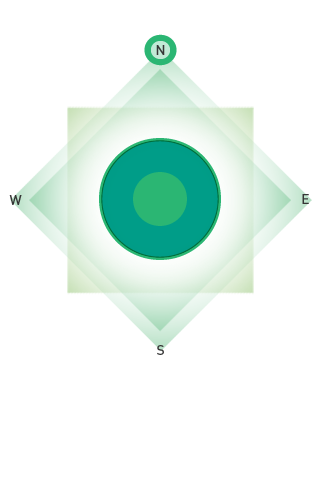
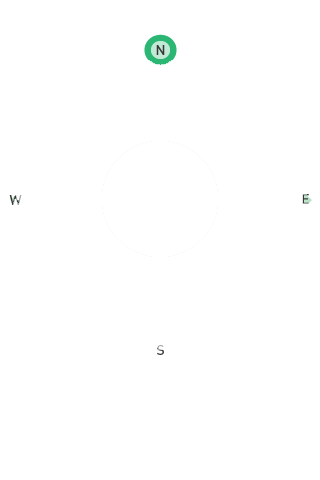
Compass design

Changed region(s): [[0.0312, 0.125, 0.9688, 0.75]]

diff --git a/src/ofApp.mm b/src/ofApp.mm
@@ -2,8 +2,12 @@
 
 //--------------------------------------------------------------
 void ofApp::setup(){
+    
+    gratio = 1.61803398875;
+    
 	ofBackground(225, 225, 225);
-
+    ofEnableAntiAliasing();
+    
 	// initialize the accelerometer
 	ofxAccelerometer.setup();
     
@@ -28,6 +32,8 @@ void ofApp::setup(){
 	
 	pix = new unsigned char[ (int)( grabber.getWidth() * grabber.getHeight() * 3.0) ];
     
+    font.loadFont("Arial.ttf", 24);
+    
 }
 
 
@@ -38,7 +44,7 @@ void ofApp::update(){
     coreMotion.update();
     
     
-    grabber.update();
+    /*grabber.update();
 	
 	unsigned char * src = grabber.getPixels();
 	int totalPix = grabber.getWidth() * grabber.getHeight() * 3;
@@ -49,53 +55,133 @@ void ofApp::update(){
 		pix[k+2] = 255 - src[k+2];
 	}
 	
-	tex.loadData(pix, grabber.getWidth(), grabber.getHeight(), GL_RGB);
+	tex.loadData(pix, grabber.getWidth(), grabber.getHeight(), GL_RGB);*/
     
+}
+
+void compassbox() {
+    ofFill();
+    ofSetColor(255);
+    ofDrawBox(0, 0, 0, 20, 20, 2);
+    ofSetColor(0);
+    ofNoFill();
+    ofDrawBox(0, 0, 0, 20, 20, 2);
 }
 
 //--------------------------------------------------------------
 void ofApp::draw(){
+    
+    ofEnableDepthTest();
+    glEnable(GL_DEPTH_TEST);
+    
+    ofQuaternion quat = coreMotion.getQuaternion();
+    ofVec3f g = coreMotion.getGyroscopeData();
+    ofVec3f m = coreMotion.getMagnetometerData();
+    
+    // quaternion rotations
+    float angle;
+    ofVec3f axis;//(0,0,1.0f);
+    quat.getRotate(angle, axis);// rotate with quaternion
+    
+    
 	ofSetColor(100);
-    grabber.draw(0, 0);
+    //grabber.draw(0, 0);
     ofSetColor(255);
 	//tex.draw(0, 0, tex.getWidth(), tex.getHeight());
     
     //float angle = 180 - RAD_TO_DEG * atan2( ofxAccelerometer.getForce().y, ofxAccelerometer.getForce().x );
     
 	//ofDrawBitmapString("Kompass", 8, 20);
-
-	/*ofEnableAlphaBlending();
+    
+    ofSetRectMode(OF_RECTMODE_CENTER);
+    float cradius = 60;
+    ofEnableAlphaBlending();
 	ofSetColor(255);
 		ofPushMatrix();
-		ofTranslate(160, 220, 0);
+		ofTranslate(ofGetWidth()/2, ofGetHeight()-(ofGetHeight()/gratio), 0);
 		ofRotateZ(heading);
-		compassImg.draw(0,0);
+    
+        ofFill();
+    
+    ofPushMatrix();
+    ofTranslate(cradius, 0,0);
+    ofRotateZ(-heading);
+    ofRotate(angle, axis.x, -axis.y, axis.z);
+    
+    ofSetColor(0);
+    ofNoFill();
+    ofDrawBox(0, 0, 0, 21, 21, 21);
+    
+    ofFill();
+    ofSetColor(255);
+    ofDrawBox(0, 0, 0, 20, 20, 20);
+
+    ofPopMatrix();
+    
+    ofPushMatrix();
+    ofTranslate(-cradius, 0,0);
+    ofRotateZ(-heading);
+    ofRotate(angle, axis.x, -axis.y, axis.z);
+    
+    ofSetColor(0);
+    ofNoFill();
+    ofDrawBox(0, 0, 0, 21, 21, 21);
+    
+    ofFill();
+    ofSetColor(255);
+    ofDrawBox(0, 0, 0, 20, 20, 20);
+
+    ofPopMatrix();
+    
+    ofPushMatrix();
+    ofTranslate(0, cradius,0);
+    ofRotateZ(-heading);
+    ofRotate(angle, axis.x, -axis.y, axis.z);
+    
+    ofSetColor(0);
+    ofNoFill();
+    ofDrawBox(0, 0, 0, 21, 21, 21);
+    
+    ofFill();
+    ofSetColor(255);
+    ofDrawBox(0, 0, 0, 20, 20, 20);
+
+    ofPopMatrix();
+    
+    ofPushMatrix();
+    ofTranslate(0, -cradius,0);
+    ofRotateZ(-heading);
+    ofRotate(angle, axis.x, -axis.y, axis.z);
+    
+    ofSetColor(0);
+    ofNoFill();
+    ofDrawBox(0, 0, 0, 21, 21, 21);
+    
+    ofFill();
+    ofSetColor(255);
+    ofDrawBox(0, 0, 0, 20, 20, 20);
+
+    ofPopMatrix();
+    
+
 	ofPopMatrix();
 	
-	ofSetColor(255);
-	arrowImg.draw(160, 220);*/
+	//arrowImg.draw(160, 220);
+    float aw = 4;
+    ofSetColor(0);
+    
+    ofFill();
+    
+    
+    float far = ofMap(coreMotion.getPitch(), 0, PI, 100, 600);;
+    ofDrawBox(ofGetWidth()/2, ofGetHeight()-(ofGetHeight()/gratio), 0, aw, far, 2);
+    ofSetColor(255);
 
-	//ofSetColor(54);
+    
+    //ofSetColor(54);
 	//ofDrawBitmapString("LAT: ", 8, ofGetHeight() - 8);
 	//ofDrawBitmapString("LON: ", ofGetWidth() - 108, ofGetHeight() - 8);
 
-
-    // attitude- quaternion
-    //ofDrawBitmapStringHighlight("Attitude: (quaternion x,y,z,w)", 20, 25);
-    //ofSetColor(0);
-    ofQuaternion quat = coreMotion.getQuaternion();
-    /*ofDrawBitmapString(ofToString(quat.x(),3), 20, 50);
-    ofDrawBitmapString(ofToString(quat.y(),3), 90, 50);
-    ofDrawBitmapString(ofToString(quat.z(),3), 160, 50);
-    ofDrawBitmapString(ofToString(quat.w(),3), 230, 50);*/
-    
-    // attitude- roll,pitch,yaw
-    //ofDrawBitmapStringHighlight("Attitude: (roll,pitch,yaw)", 20, 75);
-    /*ofSetColor(0);
-    ofDrawBitmapString(ofToString(coreMotion.getRoll(),3), 20, 100);
-    ofDrawBitmapString(ofToString(coreMotion.getPitch(),3), 120, 100);
-    ofDrawBitmapString(ofToString(coreMotion.getYaw(),3), 220, 100);*/
-    
     // accelerometer
     ofVec3f a = coreMotion.getAccelerometerData();
     /*ofDrawBitmapStringHighlight("Accelerometer: (x,y,z)", 20, 125);
@@ -105,7 +191,6 @@ void ofApp::draw(){
     ofDrawBitmapString(ofToString(a.z,3), 220, 150);*/
     
     // gyroscope
-    ofVec3f g = coreMotion.getGyroscopeData();
     /*ofDrawBitmapStringHighlight("Gyroscope: (x,y,z)", 20, 175);
     ofSetColor(0);
     ofDrawBitmapString(ofToString(g.x,3), 20, 200 );
@@ -113,7 +198,6 @@ void ofApp::draw(){
     ofDrawBitmapString(ofToString(g.z,3), 220, 200 );*/
     
     // magnetometer
-    ofVec3f m = coreMotion.getMagnetometerData();
     /*ofDrawBitmapStringHighlight("Magnetometer: (x,y,z)", 20, 225);
     ofSetColor(0);
     ofDrawBitmapString(ofToString(m.x,3), 20, 250);
@@ -123,12 +207,6 @@ void ofApp::draw(){
     
     ofPushMatrix();
     ofTranslate(ofGetWidth()/2, ofGetHeight()/2);
-    
-    // 1) quaternion rotations
-    float angle;
-    ofVec3f axis;//(0,0,1.0f);
-    quat.getRotate(angle, axis);
-    ofRotate(angle, axis.x, -axis.y, axis.z); // rotate with quaternion
     
     // 2) rotate by multiplying matrix directly
     //ofMatrix4x4 mat = coreMotion.getRotationMatrix();
@@ -141,9 +219,37 @@ void ofApp::draw(){
     //ofRotateZ( ofRadToDeg( coreMotion.getYaw() ) );
     
     ofNoFill();
-	ofDrawBox(0, 0, 0, 220); // OF 0.74: ofBox(0, 0, 0, 220);
+	//ofDrawBox(0, 0, 0, 220);
     //ofDrawAxis(100);
     ofPopMatrix();
+    
+    ofSetColor(0);
+    float w = font.getStringBoundingBox("Go!", 0, 0).width;
+    font.drawString("Go!", ofGetWidth()/2-(w/2), ofGetHeight()-40);
+    
+    /*float Speed = 1.0;     // Speed rather than velocity, as it is only the magnitude
+    float Angle = angle * RAD_TO_DEG;      // Initial angle of 30º
+    
+    ofVec3f pos = ofVec3f(0.0,0.0,0.0);  // Set the origin to (0,0)
+    ofVec3f vel = ofVec3f(0.0,0.0,0.0);
+
+    ofPushMatrix();
+    
+    float v = 0.2;
+    for(int i=0;i<10000;i++){
+        
+        float x = i;
+        float y = x * tan(Angle) - (9.8 * x) / (2 * v * cos(Angle));
+        
+        ofCircle(x/10,y/100,10);
+    }
+    ofPopMatrix();
+    */
+  //  float g = 9.8;
+   // float x = 0;
+   // float v = 1;
+    
+    //float y = x * tan(theta) - pow(x, 2) * g / ( 2* pow(v,2)
     
     //ofFill();
     //ofDrawBitmapString(ofToString("Double tap to reset \nAttitude reference frame"), 20, ofGetHeight() - 50);
@@ -184,7 +290,6 @@ void ofApp::touchUp(ofTouchEventArgs & touch){
 //--------------------------------------------------------------
 void ofApp::touchDoubleTap(ofTouchEventArgs & touch){
     coreMotion.resetAttitude();
-
 }
 
 //--------------------------------------------------------------

diff --git a/src/ofApp.h b/src/ofApp.h
@@ -41,4 +41,10 @@ class ofApp : public ofxiOSApp{
         ofImage arrowImg;
         ofImage compassImg;
     
+    
+    ofTrueTypeFont font;
+    
+    float gratio;
+    
+    
 };
